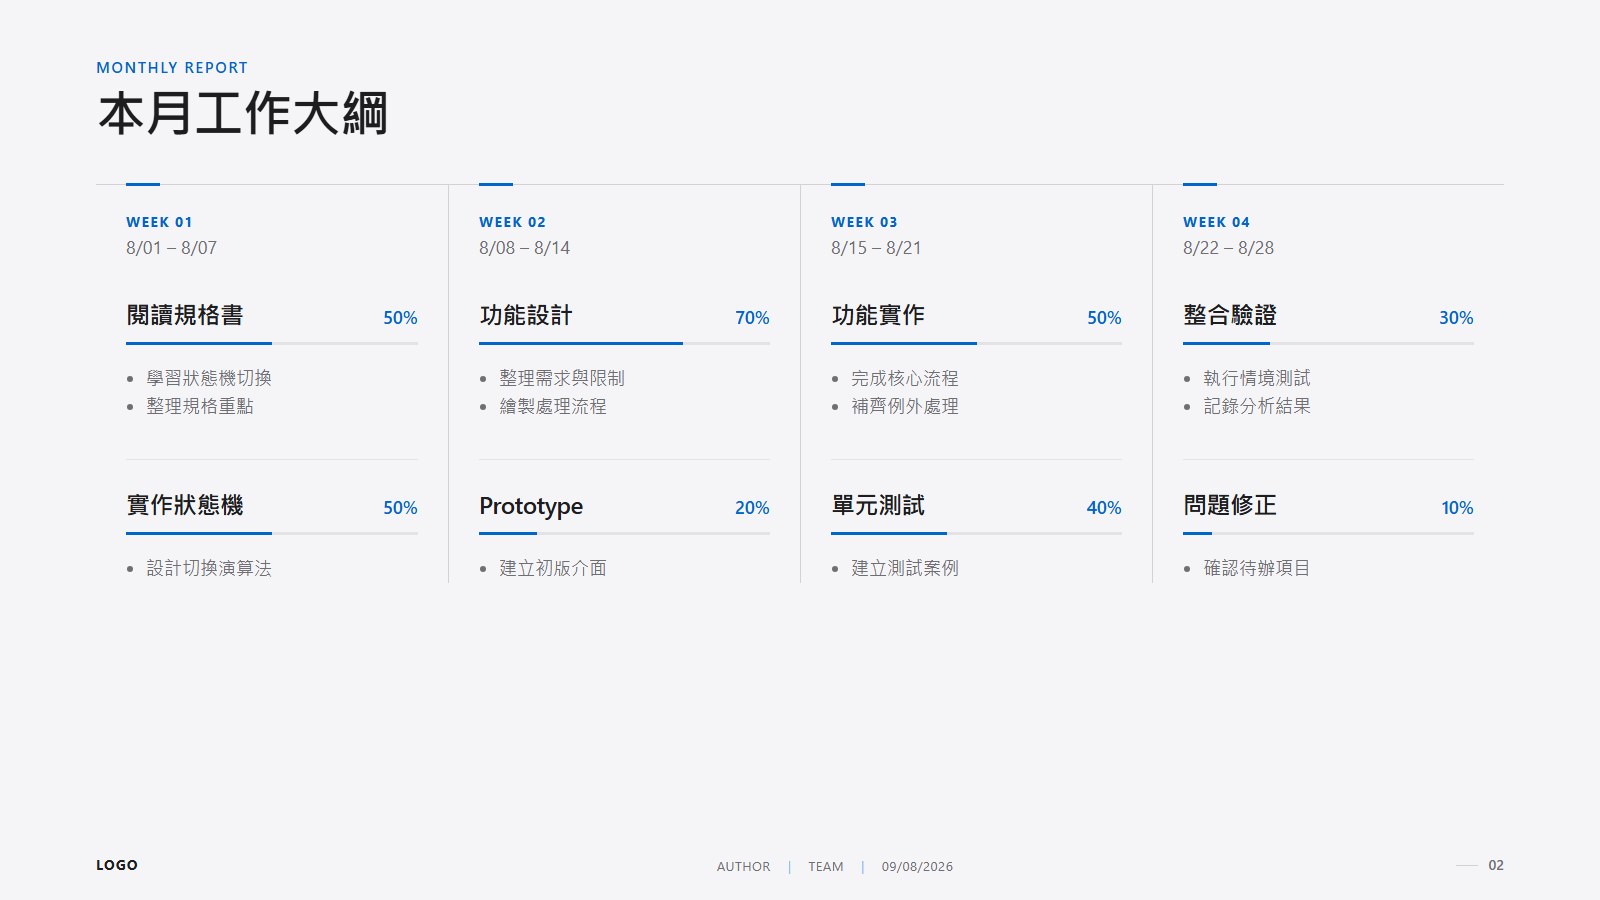
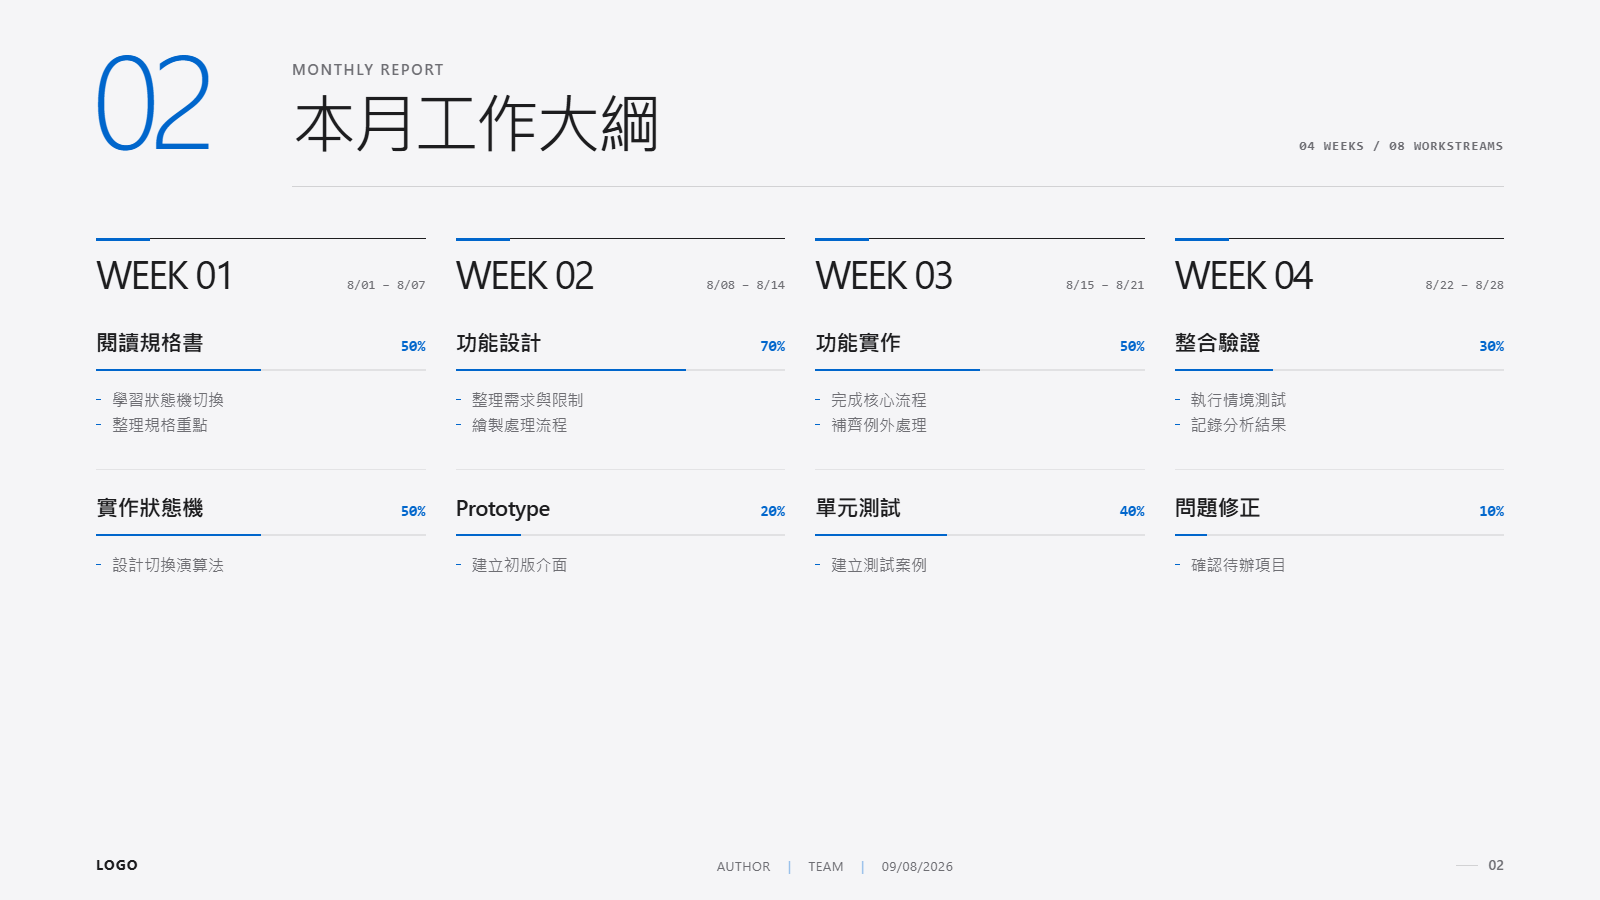
Prototype editorial slide layouts

diff --git a/templates/engineering-light-general/theme.css b/templates/engineering-light-general/theme.css
@@ -164,32 +164,63 @@ body {
 .report-period strong { display: block; margin: 16px 0 10px; font: 500 36px/1 var(--font-sans); letter-spacing: -0.03em; }
 
 /* Progress */
-.progress-grid {
+.progress-slide::before {
+	content: "02";
 	position: absolute;
-	top: 184px;
-	left: 96px;
-	right: 96px;
-	bottom: 100px;
-	display: grid;
-	grid-template-columns: repeat(4, minmax(0, 1fr));
-	gap: 0;
-	align-items: start;
-	border-top: 1px solid var(--line);
+	top: 42px;
+	left: 92px;
+	font: 260 132px/.8 var(--font-sans);
+	letter-spacing: -.075em;
+	color: var(--accent);
 }
 
-.progress-column { position: relative; min-width: 0; padding: 30px 30px 0; }
-.progress-column + .progress-column { border-left: 1px solid var(--line); }
-.progress-column::before { content: ""; position: absolute; top: -2px; left: 30px; width: 34px; height: 3px; background: var(--accent); }
-.progress-column > header { display: flex; flex-direction: column; gap: 9px; margin-bottom: 46px; }
-.progress-column > header span { font: 650 14px/1 var(--font-sans); letter-spacing: 0.1em; color: var(--accent); }
-.progress-column > header time { font-size: 18px; color: var(--text-secondary); }
-.progress-task + .progress-task { margin-top: 38px; padding-top: 32px; border-top: 1px solid var(--line-muted); }
+.progress-slide .slide-title {
+	top: 60px;
+	left: 292px;
+	right: 96px;
+	padding-bottom: 30px;
+	border-bottom: 1px solid var(--line);
+}
+
+.progress-slide .slide-title p { color: var(--text-secondary); }
+.progress-slide .slide-title h1 { font-size: 64px; font-weight: 420; letter-spacing: -.045em; }
+.progress-slide .slide-title::after {
+	content: "04 WEEKS  /  08 WORKSTREAMS";
+	position: absolute;
+	right: 0;
+	bottom: 34px;
+	display: block;
+	font: 600 13px/1 var(--font-mono);
+	letter-spacing: .08em;
+	color: var(--text-secondary);
+}
+
+.progress-grid {
+	position: absolute;
+	top: 238px;
+	left: 96px;
+	right: 96px;
+	bottom: 108px;
+	display: grid;
+	grid-template-columns: repeat(12, minmax(0, 1fr));
+	gap: 30px;
+	align-items: start;
+}
+
+.progress-column { position: relative; grid-column: span 3; min-width: 0; border-top: 1px solid var(--text); }
+.progress-column::before { content: ""; position: absolute; top: -1px; left: 0; width: 54px; height: 3px; background: var(--accent); }
+.progress-column > header { display: flex; align-items: baseline; justify-content: space-between; gap: 12px; margin-bottom: 40px; padding-top: 17px; }
+.progress-column > header span { font: 430 39px/.9 var(--font-sans); letter-spacing: -.05em; color: var(--text); }
+.progress-column > header time { flex: 0 0 auto; font: 500 13px/1 var(--font-mono); color: var(--text-secondary); }
+.progress-task + .progress-task { margin-top: 31px; padding-top: 26px; border-top: 1px solid var(--line-muted); }
 .progress-task > div { display: flex; align-items: baseline; justify-content: space-between; gap: 12px; }
-.progress-task h2 { margin: 0; font-size: 24px; font-weight: 620; letter-spacing: -0.02em; }
-.progress-task strong { font: 600 18px/1 var(--font-sans); color: var(--accent); }
-.progress-task > i { display: block; position: relative; height: 3px; margin: 16px 0 20px; background: rgba(29,29,31,.08); }
+.progress-task h2 { margin: 0; font-size: 22px; font-weight: 620; letter-spacing: -0.025em; }
+.progress-task strong { font: 600 15px/1 var(--font-mono); color: var(--accent); }
+.progress-task > i { display: block; position: relative; height: 2px; margin: 15px 0 17px; background: rgba(29,29,31,.09); }
 .progress-task > i::after { content: ""; position: absolute; inset: 0 auto 0 0; width: var(--progress); background: var(--accent); }
-.progress-task ul { margin: 0; padding-left: 20px; font-size: 18px; line-height: 1.55; color: var(--text-secondary); }
+.progress-task ul { margin: 0; padding: 0; list-style: none; font-size: 16px; line-height: 1.55; color: var(--text-secondary); }
+.progress-task li { position: relative; padding-left: 16px; }
+.progress-task li::before { content: ""; position: absolute; top: .7em; left: 0; width: 5px; height: 1px; background: var(--accent); }
 
 /* Overview */
 .overview-content { position: absolute; top: 190px; left: 96px; right: 96px; bottom: 126px; display: grid; grid-template-rows: 1fr auto; gap: 38px; }
@@ -231,33 +262,59 @@ body {
 .media-placeholder figcaption { position: absolute; left: 24px; bottom: 20px; font: 500 13px/1 var(--font-sans); color: var(--text-secondary); }
 
 /* Analysis */
-.analysis-content { position: absolute; top: 184px; left: 96px; right: 96px; bottom: 100px; display: grid; grid-template-rows: auto minmax(0, 1fr) auto; gap: 42px; }
-.metrics-grid { display: grid; grid-template-columns: repeat(3, minmax(0, 1fr)); border-top: 1px solid var(--line); }
-.metrics-grid article { min-width: 0; padding: 27px 30px 14px 0; }
-.metrics-grid article + article { padding-left: 34px; border-left: 1px solid var(--line); }
-.metrics-grid strong { font: 560 52px/.95 var(--font-sans); letter-spacing: -0.045em; }
-.metrics-grid h2 { margin: 16px 0 7px; font-size: 20px; font-weight: 620; }
-.metrics-grid p { margin: 0; font-size: 16px; color: var(--text-secondary); }
-.timeline { display: grid; grid-template-columns: repeat(4, minmax(0, 1fr)); align-self: center; }
-.timeline article { position: relative; min-width: 0; padding-right: 28px; }
-.timeline article::after { content: ""; position: absolute; top: 57px; left: 17px; right: -17px; height: 1px; background: var(--line); }
+.analysis-slide::before {
+	content: "06";
+	position: absolute;
+	top: 32px;
+	right: 88px;
+	font: 240 144px/.8 var(--font-sans);
+	letter-spacing: -.08em;
+	color: rgba(0,102,204,.12);
+}
+.analysis-slide .slide-title { right: 360px; }
+.analysis-slide .slide-title p { color: var(--text-secondary); }
+.analysis-slide .slide-title h1 { font-size: 62px; font-weight: 430; letter-spacing: -.045em; }
+.analysis-content { position: absolute; top: 190px; left: 96px; right: 96px; bottom: 108px; display: grid; grid-template-rows: minmax(0, 1.25fr) minmax(0, .72fr) auto; gap: 28px; }
+.metrics-grid { display: grid; grid-template-columns: repeat(12, minmax(0, 1fr)); gap: 30px; align-items: end; border-top: 1px solid var(--text); }
+.metrics-grid article { min-width: 0; padding-top: 24px; }
+.metrics-grid article:first-child { grid-column: 1 / span 5; }
+.metrics-grid article:nth-child(2) { grid-column: 6 / span 3; padding-bottom: 10px; }
+.metrics-grid article:nth-child(3) { grid-column: 9 / span 4; padding-bottom: 36px; }
+.metrics-grid strong { display: block; font: 260 118px/.78 var(--font-sans); letter-spacing: -.075em; }
+.metrics-grid article:first-child strong { font-size: 150px; color: var(--accent); }
+.metrics-grid article:nth-child(2) strong { font-size: 96px; }
+.metrics-grid article:nth-child(3) strong { font-size: 112px; }
+.metrics-grid h2 { margin: 25px 0 7px; font-size: 18px; font-weight: 650; letter-spacing: .01em; }
+.metrics-grid p { margin: 0; font: 500 13px/1.35 var(--font-mono); letter-spacing: .02em; color: var(--text-secondary); }
+.timeline { display: grid; grid-template-columns: repeat(12, minmax(0, 1fr)); gap: 30px; align-self: stretch; padding-top: 18px; border-top: 1px solid var(--line); }
+.timeline article { position: relative; grid-column: span 3; min-width: 0; padding-right: 20px; }
+.timeline article::after { content: ""; position: absolute; top: 49px; left: 9px; right: -39px; height: 1px; background: var(--line); transform-origin: left; }
 .timeline article:last-child::after { display: none; }
-.timeline span { font: 650 14px/1 var(--font-sans); color: var(--accent); }
-.timeline i { position: relative; z-index: 1; display: block; width: 12px; height: 12px; margin: 27px 0 26px 0; border: 3px solid var(--accent); border-radius: 50%; background: var(--bg); }
-.timeline h2 { margin: 0; font-size: 24px; font-weight: 630; letter-spacing: -0.02em; }
-.timeline p { margin: 9px 0 0; font-size: 17px; color: var(--text-secondary); }
-.analysis-note { display: grid; grid-template-columns: 95px 1fr; align-items: baseline; gap: 22px; padding-top: 22px; border-top: 1px solid var(--line); }
+.timeline span { font: 600 24px/1 var(--font-sans); letter-spacing: -.04em; color: var(--accent); }
+.timeline i { position: relative; z-index: 1; display: block; width: 8px; height: 8px; margin: 14px 0 18px; background: var(--accent); }
+.timeline h2 { margin: 0; font-size: 21px; font-weight: 630; letter-spacing: -0.025em; }
+.timeline p { margin: 7px 0 0; font-size: 15px; color: var(--text-secondary); }
+.analysis-note { display: grid; grid-template-columns: 95px minmax(0, 1fr); align-items: baseline; gap: 22px; padding-top: 17px; border-top: 1px solid var(--text); }
 .analysis-note span { font: 650 14px/1 var(--font-sans); letter-spacing: .08em; color: var(--accent); }
-.analysis-note p { margin: 0; font-size: 20px; color: var(--text-secondary); }
+.analysis-note p { margin: 0; font-size: 18px; color: var(--text-secondary); }
 
 /* Mermaid */
-.diagram-layout { position: absolute; top: 180px; left: 96px; right: 96px; bottom: 100px; display: grid; grid-template-columns: minmax(0, 1fr) 280px; gap: 48px; }
-.diagram-viewer { position: relative; margin: 0; overflow: hidden; border-radius: 22px; background: #fff; box-shadow: 0 12px 40px rgba(0,0,0,.06); cursor: grab; touch-action: none; user-select: none; }
+.diagram-layout { position: absolute; top: 52px; left: 96px; right: 96px; bottom: 100px; display: grid; grid-template-columns: repeat(12, minmax(0, 1fr)); gap: 30px; }
+.diagram-intro { grid-column: 1 / span 2; min-width: 0; display: flex; flex-direction: column; padding-top: 15px; border-top: 1px solid var(--text); }
+.diagram-intro > strong { font: 250 126px/.8 var(--font-sans); letter-spacing: -.08em; color: var(--accent); }
+.diagram-intro > p { margin: 31px 0 0; font: 650 13px/1 var(--font-sans); letter-spacing: .11em; color: var(--text-secondary); }
+.diagram-intro h1 { margin: 14px 0 0; font-size: 34px; font-weight: 470; line-height: 1.03; letter-spacing: -.045em; }
+.diagram-intro dl { margin: auto 0 4px; }
+.diagram-intro dl > div { padding: 13px 0; border-top: 1px solid var(--line); }
+.diagram-intro dt { margin: 0 0 6px; font: 600 11px/1 var(--font-mono); letter-spacing: .08em; color: var(--accent); }
+.diagram-intro dd { margin: 0; font: 500 12px/1.2 var(--font-mono); color: var(--text-secondary); }
+.diagram-viewer { position: relative; grid-column: 3 / span 7; min-width: 0; margin: 0; overflow: hidden; border-top: 1px solid var(--text); background: var(--surface); cursor: grab; touch-action: none; user-select: none; }
+.diagram-viewer::before { content: ""; position: absolute; z-index: 6; top: -1px; left: 0; width: 68px; height: 4px; background: var(--accent); }
 .diagram-viewer:active { cursor: grabbing; }
 .diagram-viewer:focus-visible { outline: 3px solid rgba(0,102,204,.25); outline-offset: 3px; }
 .diagram-corners::before,
 .diagram-corners::after { display: none; }
-.mermaid-stage { position: absolute; top: 20px; left: 20px; right: 20px; bottom: 58px; display: grid; place-items: center; transform-origin: 0 0; will-change: transform; }
+.mermaid-stage { position: absolute; top: 26px; left: 24px; right: 24px; bottom: 58px; display: grid; place-items: center; transform-origin: 0 0; will-change: transform; }
 .mermaid-stage .mermaid { display: grid; width: 100%; height: 100%; margin: 0; place-items: center; }
 .mermaid-stage svg { display: block; width: 100% !important; max-width: 100% !important; height: 100% !important; max-height: 100% !important; }
 .mermaid-stage svg text,
@@ -273,17 +330,50 @@ body {
 	line-height: 1.2 !important;
 }
 .mermaid-stage foreignObject p { margin: 0 !important; }
-.diagram-viewer figcaption { position: absolute; z-index: 5; left: 0; right: 0; bottom: 0; display: flex; gap: 22px; align-items: center; height: 44px; padding: 0 22px; border-top: 1px solid var(--line-muted); background: rgba(255,255,255,.94); font: 500 13px/1 var(--font-sans); color: var(--text-secondary); }
+.diagram-viewer figcaption { position: absolute; z-index: 5; left: 0; right: 0; bottom: 0; display: flex; gap: 22px; align-items: center; height: 44px; padding: 0 18px; border-top: 1px solid var(--line-muted); background: rgba(255,255,255,.96); font: 500 12px/1 var(--font-mono); color: var(--text-secondary); }
 .zoom-value { min-width: 56px; color: var(--accent); }
-.focus-points { padding-left: 30px; border-left: 1px solid var(--line); }
-.focus-points > header { padding: 2px 0 25px; font: 650 13px/1 var(--font-sans); letter-spacing: .1em; color: var(--accent); }
-.focus-points article { display: grid; grid-template-columns: 36px 1fr; gap: 8px; padding: 22px 0; border-top: 1px solid var(--line-muted); }
+.focus-points { grid-column: 10 / span 3; min-width: 0; border-top: 1px solid var(--text); }
+.focus-points > header { padding: 18px 0 27px; font: 650 13px/1 var(--font-sans); letter-spacing: .1em; color: var(--accent); }
+.focus-points article { display: grid; grid-template-columns: 38px 1fr; gap: 8px; padding: 20px 0; border-top: 1px solid var(--line-muted); }
 .focus-points article:last-child { border-bottom: 0; }
-.focus-points article > span { font: 650 14px/1 var(--font-sans); color: var(--accent); }
-.focus-points h2 { margin: 0; font-size: 18px; font-weight: 630; }
-.focus-points p { margin: 8px 0 0; font-size: 15px; line-height: 1.45; color: var(--text-secondary); }
+.focus-points article > span { font: 600 13px/1 var(--font-mono); color: var(--accent); }
+.focus-points h2 { margin: 0; font-size: 18px; font-weight: 620; letter-spacing: -.015em; }
+.focus-points p { margin: 8px 0 0; font-size: 15px; line-height: 1.4; color: var(--text-secondary); }
 .diagram-slide.diagram-wide .diagram-layout { grid-template-columns: 1fr; }
 .diagram-slide.diagram-wide .focus-points { display: none; }
+
+/* Editorial prototype motion */
+@keyframes editorial-enter {
+	from { opacity: 0; transform: translateY(16px); }
+	to { opacity: 1; transform: translateY(0); }
+}
+
+@keyframes editorial-rule {
+	from { transform: scaleX(0); }
+	to { transform: scaleX(1); }
+}
+
+.present.progress-slide .slide-title,
+.present.analysis-slide .slide-title,
+.present.diagram-slide .diagram-intro { animation: editorial-enter 420ms cubic-bezier(.22,.8,.28,1) both; }
+.present.progress-slide .progress-grid,
+.present.analysis-slide .metrics-grid,
+.present.diagram-slide .diagram-viewer { animation: editorial-enter 440ms 80ms cubic-bezier(.22,.8,.28,1) both; }
+.present.analysis-slide .timeline,
+.present.diagram-slide .focus-points { animation: editorial-enter 440ms 150ms cubic-bezier(.22,.8,.28,1) both; }
+.present.analysis-slide .timeline article::after { animation: editorial-rule 480ms 240ms ease-out both; }
+
+@media (prefers-reduced-motion: reduce) {
+	.present.progress-slide .slide-title,
+	.present.analysis-slide .slide-title,
+	.present.diagram-slide .diagram-intro,
+	.present.progress-slide .progress-grid,
+	.present.analysis-slide .metrics-grid,
+	.present.diagram-slide .diagram-viewer,
+	.present.analysis-slide .timeline,
+	.present.diagram-slide .focus-points,
+	.present.analysis-slide .timeline article::after { animation: none; }
+}
 
 /* Code and terminal */
 .code-terminal-layout { position: absolute; top: 180px; left: 96px; right: 96px; bottom: 100px; display: grid; grid-template-columns: minmax(0, 1.8fr) minmax(0, 1fr); gap: 24px; }

diff --git a/templates/engineering-light-general/index.html b/templates/engineering-light-general/index.html
@@ -132,8 +132,17 @@
 					</section>
 
 					<section class="template-slide diagram-slide" data-transition="none">
-						<header class="slide-title"><p>MERMAID / DIAGRAM</p><h1>Class Relationship</h1></header>
 						<main class="diagram-layout">
+							<header class="diagram-intro">
+								<strong aria-hidden="true">07</strong>
+								<p>ARCHITECTURE</p>
+								<h1>Class<br>Relationship</h1>
+								<dl>
+									<div><dt>TYPE</dt><dd>CLASS DIAGRAM</dd></div>
+									<div><dt>VIEW</dt><dd>INTERACTIVE</dd></div>
+									<div><dt>ENGINE</dt><dd>MERMAID</dd></div>
+								</dl>
+							</header>
 							<figure class="diagram-viewer" tabindex="0" aria-label="可拖曳與縮放的 Mermaid 類別關係圖">
 								<div class="diagram-corners" aria-hidden="true"></div>
 								<div class="mermaid-stage">
@@ -208,6 +217,25 @@ classDiagram
 		<script src="../../dist/plugin/highlight.js"></script>
 		<script src="https://cdn.jsdelivr.net/npm/mermaid@11/dist/mermaid.min.js"></script>
 		<script>
+			if (window.mermaid) {
+				mermaid.initialize({
+					startOnLoad: false,
+					htmlLabels: false,
+					theme: 'base',
+					securityLevel: 'strict',
+					themeVariables: {
+						primaryColor: '#edf4fb',
+						primaryTextColor: '#17324f',
+						primaryBorderColor: '#4e89cf',
+						lineColor: '#6d8eaf',
+						secondaryColor: '#f7f9fb',
+						tertiaryColor: '#ffffff',
+						fontSize: '16px',
+						fontFamily: 'Segoe UI, Microsoft JhengHei, sans-serif'
+					}
+				});
+			}
+
 			const deck = new Reveal({
 				width: 1600,
 				height: 900,
@@ -317,21 +345,6 @@ classDiagram
 			const initializeMermaid = async () => {
 				if (!window.mermaid) return;
 				if (document.fonts?.ready) await document.fonts.ready;
-				mermaid.initialize({
-					startOnLoad: false,
-					theme: 'base',
-					securityLevel: 'strict',
-					themeVariables: {
-						primaryColor: '#edf4fb',
-						primaryTextColor: '#17324f',
-						primaryBorderColor: '#4e89cf',
-						lineColor: '#6d8eaf',
-						secondaryColor: '#f7f9fb',
-						tertiaryColor: '#ffffff',
-						fontSize: '16px',
-						fontFamily: 'Segoe UI, Microsoft JhengHei, sans-serif'
-					}
-				});
 				await mermaid.run({ nodes: document.querySelectorAll('.mermaid') });
 				document.querySelectorAll('.diagram-viewer').forEach(initializePanZoom);
 			};
